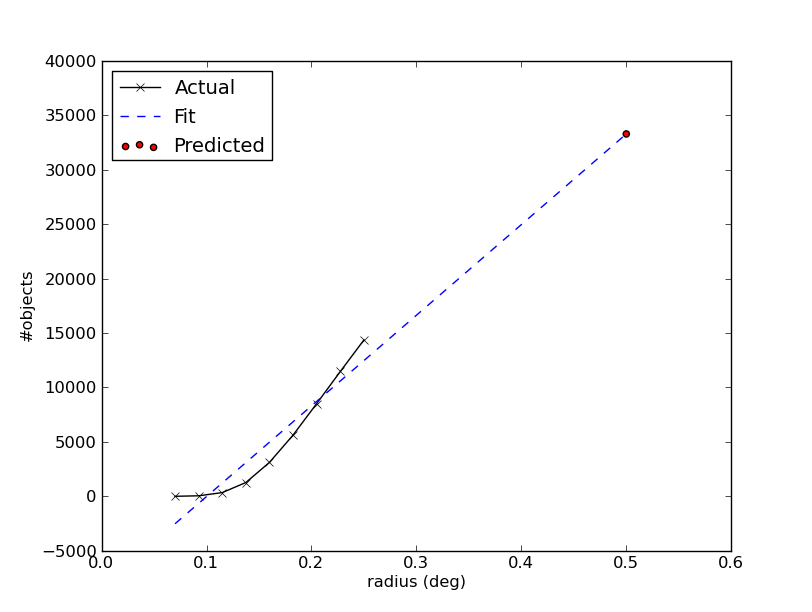
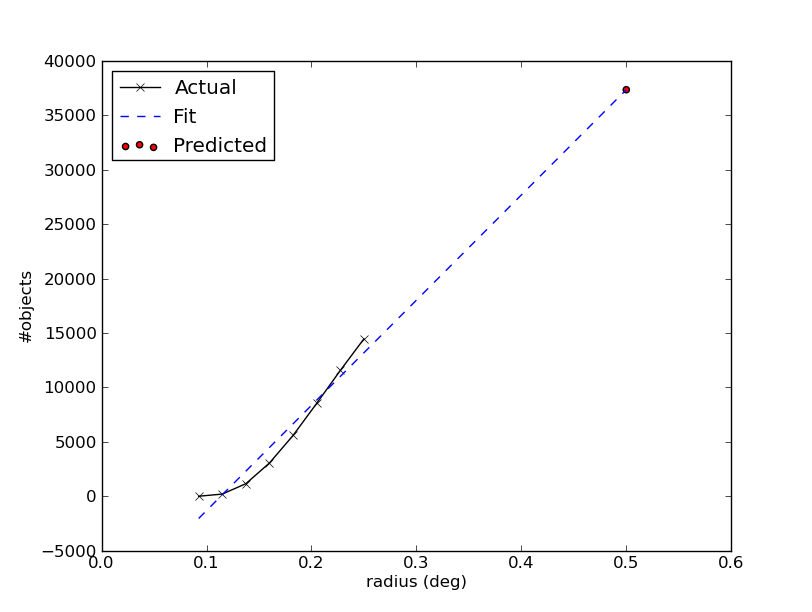
Cone Search examples now more realistic

diff --git a/astropy/vo/client/conesearch.py b/astropy/vo/client/conesearch.py
@@ -52,7 +52,9 @@ class AsyncConeSearch(object):
 
     Examples
     --------
-    >>> async_search = conesearch.AsyncConeSearch(6.088, -72.086, 0.5)
+    >>> async_search = conesearch.AsyncConeSearch(
+    ...     6.0223, -72.0814, 0.5,
+    ...     catalog_db='The PMM USNO-A1.0 Catalogue (Monet 1997) 1')
 
     Check search status:
 
@@ -60,7 +62,6 @@ class AsyncConeSearch(object):
     True
     >>> async_search.done()
     False
-
 
     Get search results after a 30-second wait (not to be
     confused with ``astropy.utils.data.REMOTE_TIMEOUT`` that
@@ -73,7 +74,7 @@ class AsyncConeSearch(object):
     >>> async_result = async_search.get(timeout=30)
     >>> cone_arr = async_result.array.data
     >>> cone_arr.size
-    36386
+    36184
 
     """
     def __init__(self, *args, **kwargs):

diff --git a/docs/vo/index.rst b/docs/vo/index.rst
@@ -93,14 +93,14 @@ Select a 2MASS catalog from the list above that is to be searched:
 
 >>> my_catname = 'Two Micron All Sky Survey (2MASS) 1'
 
-Query the selected 2MASS catalog around M31 with a 0.1-deg search radius:
+Query the selected 2MASS catalog around M31 with a 0.1-degree search radius:
 
 >>> from astropy import coordinates as coord
 >>> c = coord.ICRSCoordinates.from_name('M31')
 >>> c.ra, c.dec
 (<RA 10.68471 deg>, <Dec 41.26875 deg>)
->>> result = conesearch.conesearch(c.ra.degrees, c.dec.degrees, 0.1,
-...                                catalog_db=my_catname)
+>>> result = conesearch.conesearch(
+...     c.ra.degrees, c.dec.degrees, 0.1, catalog_db=my_catname)
 Trying http://wfaudata.roe.ac.uk/twomass-dsa/DirectCone?DSACAT=TWOMASS&...
 Downloading ...
 WARNING: W06: ... UCD has invalid character '?' in '??' [...]
@@ -337,8 +337,9 @@ in :ref:`vo-sec-scs-config` below. Here are the available options:
 In the default setting, it searches the good Cone Search services one by one,
 stops at the first one that gives non-zero match(es), and returns the result.
 Since the list of services are extracted from a Python dictionary, the search
-order might differ from call to call. :ref:`vo-sec-scs-examples` below also
-show how to use non-default search behaviors.
+order might differ from call to call. :ref:`vo-sec-scs-examples` below show
+how to use non-default search behaviors, where the user has more control of
+which catalog(s) to search.
 
 .. note::
 
@@ -390,24 +391,29 @@ Shows a sorted list of Cone Search services to be searched
  u'USNO-A2 Catalogue 1',
  u'USNO-A2.0 1']
 
+Select a catalog to search:
+
+>>> my_catname = 'The PMM USNO-A1.0 Catalogue (Monet 1997) 1'
+
 By default, pedantic is `False`:
 
 >>> from astropy.io.votable.table import PEDANTIC
 >>> PEDANTIC()
 False
 
-Perform cone search for :math:`0.5^{\circ}` radius around 47 Tucanae
-(RA :math:`6.088^{\circ}`, DEC :math:`-72.086^{\circ}`) with minimum verbosity,
-if supported. The first catalog in the database to
-successfully return a result is used. If running this for
-the first time, a copy of the catalogs database will be
+Perform Cone Search in the selected catalog above for 0.5 degree radius
+around 47 Tucanae with minimum verbosity, if supported.
+The ``catalog_db`` keyword gives control over which catalog(s) to use.
+If running this for the first time, a copy of the catalogs database will be
 downloaded to local cache. To run this again without
 using cached data, set ``cache=False``:
 
->>> result = conesearch.conesearch(6.088, -72.086, 0.5)
-Trying http://wfaudata.roe.ac.uk/sdssdr7-dsa/DirectCone?DSACAT=SDSS_DR7&...
-WARNING: W25: ... failed with: timed out [...]
-# ...
+>>> from astropy import coordinates as coord
+>>> c = coord.ICRSCoordinates.from_name('47 Tuc')
+>>> c
+<ICRSCoordinates RA=6.02233 deg, Dec=-72.08144 deg>
+>>> result = conesearch.conesearch(
+...     c.ra.degrees, c.dec.degrees, 0.5, catalog_db=my_catname)
 Trying http://vizier.u-strasbg.fr/viz-bin/votable/-A?-source=I/243/out&
 Downloading ...
 WARNING: W22: ... The DEFINITIONS element is deprecated in VOTable 1.1...
@@ -417,50 +423,53 @@ To run the command above using custom timeout of
 
 >>> from astropy.utils.data import REMOTE_TIMEOUT
 >>> with REMOTE_TIMEOUT.set_temp(30):
-...     result = conesearch.conesearch(6.088, -72.086, 0.5)
+...     result = conesearch.conesearch(
+...         c.ra.degrees, c.dec.degrees, 0.5, catalog_db=my_catname)
 
 To suppress *all* the screen outputs (not recommended):
 
 >>> import warnings
 >>> with warnings.catch_warnings():
 ...     warnings.simplefilter('ignore')
-...     result = conesearch.conesearch(6.088, -72.086, 0.5, verbose=False)
+...     result = conesearch.conesearch(
+...         c.ra.degrees, c.dec.degrees, 0.5, catalog_db=my_catname,
+...         verbose=False)
 
 Extract Numpy array containing the matched objects. See
 `numpy` for available operations:
 
 >>> cone_arr = result.array.data
 >>> cone_arr
-array([(0.499227, 4.465375, -72.106348, '0150-00089898'),
-       (0.499716, 4.468892, -72.050834, '0150-00089994'),
-       (0.498522, 4.469573, -72.120406, '0150-00090016'), ...,
-       (0.499753, 7.709364, -72.059581, '0150-00229066'),
-       (0.499739, 7.710762, -72.067145, '0150-00229140'),
-       (0.49931, 7.71077, -72.107684, '0150-00229141')],
+array([(0.499298, 4.403473, -72.124045, '0150-00088188'),
+       (0.499075, 4.403906, -72.122762, '0150-00088198'),
+       (0.499528, 4.404531, -72.045198, '0150-00088210'), ...,
+       (0.4988, 7.641731, -72.113156, '0150-00225965'),
+       (0.499554, 7.645489, -72.103167, '0150-00226134'),
+       (0.499917, 7.6474, -72.0876, '0150-00226223')], 
       dtype=[('_r', '<f8'), ('_RAJ2000', '<f8'), ('_DEJ2000', '<f8'),
              ('USNO-A1.0', '|S13')])
 >>> cone_arr.dtype.names
 ('_r', '_RAJ2000', '_DEJ2000', 'USNO-A1.0')
 >>> cone_arr.size
-36386
+36184
 >>> ra_list = cone_arr['_RAJ2000']
 >>> ra_list
-array([ 4.465375,  4.468892,  4.469573, ...,  7.709364,  7.710762,  7.71077 ])
+array([ 4.403473,  4.403906,  4.404531, ...,  7.641731,  7.645489,  7.6474  ])
 >>> cone_arr[0]  # First row
-(0.499227, 4.465375, -72.106348, '0150-00089898')
+(0.499298, 4.403473, -72.124045, '0150-00088188')
 >>> cone_arr[-1]  # Last row
-(0.49931, 7.71077, -72.107684, '0150-00229141')
+(0.499917, 7.6474, -72.0876, '0150-00226223')
 >>> cone_arr[:10]  # First 10 rows
-array([(0.499227, 4.465375, -72.106348, '0150-00089898'),
-       (0.499716, 4.468892, -72.050834, '0150-00089994'),
-       (0.498522, 4.469573, -72.120406, '0150-00090016'),
-       (0.497264, 4.471928, -72.077298, '0150-00090076'),
-       (0.49791, 4.472681, -72.059362, '0150-00090094'),
-       (0.496641, 4.473367, -72.085139, '0150-00090125'),
-       (0.496347, 4.474137, -72.092803, '0150-00090146'),
-       (0.49673, 4.474284, -72.072045, '0150-00090153'),
-       (0.4963, 4.474306, -72.094837, '0150-00090154'),
-       (0.496058, 4.475092, -72.094639, '0150-00090173')],
+array([(0.499298, 4.403473, -72.124045, '0150-00088188'),
+       (0.499075, 4.403906, -72.122762, '0150-00088198'),
+       (0.499528, 4.404531, -72.045198, '0150-00088210'),
+       (0.497252, 4.406078, -72.095045, '0150-00088245'),
+       (0.499739, 4.406462, -72.139545, '0150-00088254'),
+       (0.496312, 4.410623, -72.110492, '0150-00088372'),
+       (0.49473, 4.415053, -72.071217, '0150-00088494'),
+       (0.494171, 4.415939, -72.087512, '0150-00088517'),
+       (0.493722, 4.417678, -72.0972, '0150-00088572'),
+       (0.495147, 4.418262, -72.047142, '0150-00088595')],
       dtype=[('_r', '<f8'), ('_RAJ2000', '<f8'), ('_DEJ2000', '<f8'),
              ('USNO-A1.0', '|S13')])
 
@@ -470,12 +479,12 @@ Sort the matched objects by angular separation in ascending order:
 >>> sep = cone_arr['_r']
 >>> i_sorted = np.argsort(sep)
 >>> cone_arr[i_sorted]
-array([(0.069463, 6.311239, -72.09662, '0150-00163075'),
-       (0.074441, 6.328667, -72.093992, '0150-00163906'),
-       (0.074641, 6.330117, -72.09117, '0150-00163971'), ...,
-       (0.499953, 6.769789, -72.541034, '0150-00186705'),
-       (0.499986, 7.664375, -71.970134, '0150-00227015'),
-       (0.499991, 7.211106, -72.4507, '0150-00207032')],
+array([(0.081971, 5.917787, -72.006075, '0150-00145335'),
+       (0.083181, 6.020339, -72.164623, '0150-00149799'),
+       (0.089166, 5.732798, -72.077698, '0150-00137181'), ...,
+       (0.499981, 7.024962, -72.477503, '0150-00198745'),
+       (0.499987, 6.423773, -71.597364, '0150-00168596'),
+       (0.499989, 6.899589, -72.5043, '0150-00192872')], 
       dtype=[('_r', '<f8'), ('_RAJ2000', '<f8'), ('_DEJ2000', '<f8'),
              ('USNO-A1.0', '|S13')])
 
@@ -490,8 +499,8 @@ u'Right ascension (FK5, Equinox=J2000.0) (computed by VizieR, ...)'
 >>> ra_field.unit
 Unit("deg")
 >>> ra_field.unit.to(u.arcsec) * ra_list
-array([ 16075.35  ,  16088.0112,  16090.4628, ...,  27753.7104,
-        27758.7432,  27758.772 ])
+array([ 15852.5028,  15854.0616,  15856.3116, ...,  27510.2316,
+        27523.7604,  27530.64  ])
 
 Perform the same Cone Search as above but asynchronously using
 `~astropy.vo.client.conesearch.AsyncConeSearch`.
@@ -500,7 +509,8 @@ Queries to individual Cone Search services are still governed by
 to run in silent mode asynchronously, but warnings are still
 controlled by :py:mod:`warnings`:
 
->>> async_search = conesearch.AsyncConeSearch(6.088, -72.086, 0.5)
+>>> async_search = conesearch.AsyncConeSearch(
+...     c.ra.degrees, c.dec.degrees, 0.5, catalog_db=my_catname)
 
 Check asynchronous search status:
 
@@ -520,7 +530,7 @@ completion:
 >>> async_result = async_search.get(timeout=30)
 >>> cone_arr = async_result.array.data
 >>> cone_arr.size
-36386
+36184
 
 Estimate the execution time and the number of objects for
 the Cone Search service URL from above. The prediction naively
@@ -533,19 +543,22 @@ timeout of 30 seconds and runs silently (except for warnings):
 u'http://vizier.u-strasbg.fr/viz-bin/votable/-A?-source=I/243/out&'
 >>> with REMOTE_TIMEOUT.set_temp(30):
 ...     t_est, n_est = conesearch.predict_search(
-...         result.url, 6.088, -72.086, 0.5, verbose=False, plot=True)
+...         result.url, c.ra.degrees, c.dec.degrees, 0.5,
+...         verbose=False, plot=True)
+WARNING: W22: ... The DEFINITIONS element is deprecated in VOTable 1.1...
+# ...
 >>> t_est  # Predicted execution time
-15.109336715274392
+19.272144977377838
 >>> n_est  # Predicted number of objects
-33277
+37340
 
 .. image:: images/client_predict_search_t.png
     :width: 450px
-    :alt: Example plot from conesearch.predict_search (t)
+    :alt: Example plot from conesearch.predict_search() for t_est
 
 .. image:: images/client_predict_search_n.png
     :width: 450px
-    :alt: Example plot from conesearch.predict_search (n)
+    :alt: Example plot from conesearch.predict_search() for n_est
 
 For debugging purpose, one can obtain the actual execution time
 and number of objects, and compare them with the predicted values
@@ -554,20 +567,18 @@ Keep in mind that running this for every prediction
 would defeat the purpose of the prediction itself:
 
 >>> t_real, tab = conesearch.conesearch_timer(
-...     6.088, -72.086, 0.5, catalog_db=result.url, verbose=False)
-INFO: conesearch_timer took 9.04488611221 s on AVERAGE for 1 call(s). [...]
+...     c.ra.degrees, c.dec.degrees, 0.5, catalog_db=result.url, verbose=False)
+INFO: conesearch_timer took 11.5103080273 s on AVERAGE for 1 call(s). [...]
 >>> t_real  # Actual execution time
-9.044886112213135
+11.510308027267456
 >>> tab.array.size  # Actual number of objects
-36386
+36184
 
-For better control of which Cone Search service to use, one can
-utilize the ``catalog_db`` keyword in
-:func:`~astropy.vo.client.conesearch.conesearch`.
-In this example, we look for those containing 'guide*star' in their titles
-and only perform Cone Search using those services. As the first catalog in
-the list to successfully return non-zero results is used, the order of
-catalog names given in ``catalog_db`` is important:
+One can also search in a list of catalogs instead of a single one.
+In this example, we look for all catalogs containing 'guide*star' in their
+titles and only perform Cone Search using those services.
+The first catalog in the list to successfully return non-zero result is used.
+Therefore, the order of catalog names given in ``catalog_db`` is important:
 
 >>> gsc_cats = conesearch.list_catalogs(pattern='guide*star')
 >>> gsc_cats
@@ -575,13 +586,15 @@ catalog names given in ``catalog_db`` is important:
  u'The HST Guide Star Catalog, Version 1.1 (Lasker+ 1992) 1',
  u'The HST Guide Star Catalog, Version 1.2 (Lasker+ 1996) 1',
  u'The HST Guide Star Catalog, Version GSC-ACT (Lasker+ 1996-99) 1']
->>> gsc_result = conesearch.conesearch(6.088, -72.086, 0.5, catalog_db=gsc_cats)
+>>> gsc_result = conesearch.conesearch(
+...     c.ra.degrees, c.dec.degrees, 0.5, catalog_db=gsc_cats)
 Trying http://gsss.stsci.edu/webservices/vo/ConeSearch.aspx?CAT=GSC23&
+WARNING: W25: ... failed with: timed out [...]
 Trying http://vizier.u-strasbg.fr/viz-bin/votable/-A?-source=I/220/out&
 Downloading ...
 WARNING: W22: ... The DEFINITIONS element is deprecated in VOTable 1.1...
 >>> gsc_result.array.size
-2985
+2997
 >>> gsc_result.url
 u'http://vizier.u-strasbg.fr/viz-bin/votable/-A?-source=I/220/out&'
 
@@ -595,29 +608,14 @@ different order:
  u'The HST Guide Star Catalog, Version 1.2 (Lasker+ 1996) 1',
  u'Guide Star Catalog 2.3 1']
 >>> gsc_result = conesearch.conesearch(
-...     6.088, -72.086, 0.5, catalog_db=gsc_cats_reordered)
+...     c.ra.degrees, c.dec.degrees, 0.5, catalog_db=gsc_cats_reordered)
 Trying http://vizier.u-strasbg.fr/viz-bin/votable/-A?-source=I/255/out&
 Downloading ...
 WARNING: W22: ... The DEFINITIONS element is deprecated in VOTable 1.1...
 >>> gsc_result.array.size
-2985
+2997
 >>> gsc_result.url
 u'http://vizier.u-strasbg.fr/viz-bin/votable/-A?-source=I/255/out&'
-
-One can also specify exactly which Cone Search service to use instead
-of using a list. In this example, we only use the Cone Search service
-titled 'The HST Guide Star Catalog, Version 1.2 (Lasker+ 1996) 1':
-
->>> gsc_result = conesearch.conesearch(
-...     6.088, -72.086, 0.5,
-...     catalog_db='The HST Guide Star Catalog, Version 1.2 (Lasker+ 1996) 1')
-Trying http://vizier.u-strasbg.fr/viz-bin/votable/-A?-source=I/254/out&
-Downloading ...
-WARNING: W22: ... The DEFINITIONS element is deprecated in VOTable 1.1...
->>> gsc_result.array.size
-2986
->>> gsc_result.url
-u'http://vizier.u-strasbg.fr/viz-bin/votable/-A?-source=I/254/out&'
 
 If one is unable to obtain any results using the default
 Cone Search database, 'conesearch_good.json', that only contains
@@ -628,12 +626,20 @@ validation warnings. One should use these sites with caution:
 >>> conesearch.CONESEARCH_DBNAME.set('conesearch_warn')
 >>> conesearch.list_catalogs()
 Downloading http://stsdas.stsci.edu/astrolib/vo_databases/conesearch_warn.json
-|============================================|  94/ 94k (100.00%)        00s
+|===========================================|  87k/ 87k (100.00%)        00s
 [u'2MASS All-Sky Catalog of Point Sources (Cutri+ 2003) 1',
  u'2MASS All-Sky Point Source Catalog 1',
  u'Data release 7 of Sloan Digital Sky Survey catalogs 1',
  u'Data release 7 of Sloan Digital Sky Survey catalogs 2',
- u'Data release 7 of Sloan Digital Sky Survey catalogs 3', ...,
+ u'Data release 7 of Sloan Digital Sky Survey catalogs 3',
+ u'Data release 7 of Sloan Digital Sky Survey catalogs 4',
+ u'Data release 7 of Sloan Digital Sky Survey catalogs 5',
+ u'Data release 7 of Sloan Digital Sky Survey catalogs 6',
+ u'The 2MASS All-Sky Catalog 1',
+ u'The 2MASS All-Sky Catalog 2',
+ u'The USNO-B1.0 Catalog (Monet+ 2003) 1',
+ u'The USNO-B1.0 Catalog 1',
+ u'USNO-A V2.0, A Catalog of Astrometric Standards 1',
  u'USNO-B1 Catalogue 1']
 
 
